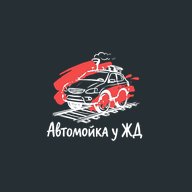
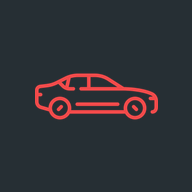
PWA: сплэш и иконка «Легковые», short_name «Автомойка» и фикс прайса.

Changed region(s): [[0.1562, 0.25, 0.8438, 0.75]]

diff --git a/apps/pwa/src/components/layout/SplashScreen.tsx b/apps/pwa/src/components/layout/SplashScreen.tsx
@@ -1,4 +1,4 @@
-import { LOGO_APP_PATH } from "../../brand/logo";
+import { AppMark } from "../brand/AppMark";
 
 export function SplashScreen() {
   return (
@@ -6,7 +6,7 @@ export function SplashScreen() {
       <div className="splash-screen__pattern" aria-hidden />
       <div className="splash-screen__content">
         <div className="splash-mark" aria-hidden>
-          <img className="splash-mark__logo" src={LOGO_APP_PATH} alt="" />
+          <AppMark className="splash-mark__logo" />
         </div>
         <h1 className="splash-screen__title">Автомойка у ЖД</h1>
         <p className="splash-screen__city">г. Ступино</p>

diff --git a/apps/pwa/src/pages/SplashPage.tsx b/apps/pwa/src/pages/SplashPage.tsx
@@ -1,6 +1,7 @@
 import { useEffect, useState } from "react";
 import { Navigate, useNavigate } from "react-router-dom";
 import { useAuth } from "../auth";
+import { SPLASH_MIN_DURATION_MS } from "../brand/logo";
 import { SplashScreen } from "../components/layout/SplashScreen";
 
 export function SplashPage() {
@@ -9,7 +10,7 @@ export function SplashPage() {
   const [minDelay, setMinDelay] = useState(false);
 
   useEffect(() => {
-    const t = window.setTimeout(() => setMinDelay(true), 900);
+    const t = window.setTimeout(() => setMinDelay(true), SPLASH_MIN_DURATION_MS);
     return () => window.clearTimeout(t);
   }, []);
 

diff --git a/apps/pwa/index.html b/apps/pwa/index.html
@@ -5,7 +5,7 @@
     <meta name="viewport" content="width=device-width, initial-scale=1, viewport-fit=cover" />
     <meta name="theme-color" content="#262f34" />
     <meta name="apple-mobile-web-app-capable" content="yes" />
-    <meta name="apple-mobile-web-app-title" content="Автомойка у ЖД" />
+    <meta name="apple-mobile-web-app-title" content="Автомойка" />
     <link rel="icon" href="/favicon-32.png" type="image/png" sizes="32x32" />
     <link rel="apple-touch-icon" href="/pwa-192.png" />
     <title>Автомойка у ЖД</title>

diff --git a/apps/pwa/vite.config.ts b/apps/pwa/vite.config.ts
@@ -18,7 +18,7 @@ export default defineConfig(({ mode }) => {
         includeAssets: ["favicon-32.png", "logo/logo.jpeg", "logo/logo.png", "pwa-192.png", "pwa-512.png"],
         manifest: {
           name: "Автомойка у ЖД",
-          short_name: "Автомойка у ЖД",
+          short_name: "Автомойка",
           description: "Прайс, запись и личный кабинет автомойки в Ступино",
           theme_color: "#262f34",
           background_color: "#262f34",

diff --git a/apps/pwa/src/components/brand/BrandLogo.tsx b/apps/pwa/src/components/brand/BrandLogo.tsx
@@ -1,14 +1,5 @@
-import { LOGO_NAV_SRC } from "../../brand/logo";
+import { AppMark } from "./AppMark";
 
 export function BrandLogo({ className = "" }: { className?: string }) {
-  return (
-    <span
-      className={["brand-logo", className].filter(Boolean).join(" ")}
-      style={{
-        WebkitMaskImage: `url(${LOGO_NAV_SRC})`,
-        maskImage: `url(${LOGO_NAV_SRC})`,
-      }}
-      aria-hidden
-    />
-  );
+  return <AppMark className={["brand-logo", className].filter(Boolean).join(" ")} />;
 }

diff --git a/apps/pwa/src/components/brand/AppMark.tsx b/apps/pwa/src/components/brand/AppMark.tsx
@@ -1,0 +1,14 @@
+import { LOGO_NAV_SRC } from "../../brand/logo";
+
+export function AppMark({ className = "" }: { className?: string }) {
+  return (
+    <span
+      className={["app-mark", className].filter(Boolean).join(" ")}
+      style={{
+        WebkitMaskImage: `url(${LOGO_NAV_SRC})`,
+        maskImage: `url(${LOGO_NAV_SRC})`,
+      }}
+      aria-hidden
+    />
+  );
+}

diff --git a/apps/pwa/src/brand/logo.ts b/apps/pwa/src/brand/logo.ts
@@ -8,3 +8,6 @@ export const LOGO_SOURCE_PATH = "/logo/logo.jpeg";
 export const LOGO_APP_PATH = "/logo/logo.png";
 /** Временно: иконка класса «Легковые» */
 export const LOGO_NAV_SRC = sedanIcon;
+
+/** Минимальное время сплэша при старте приложения */
+export const SPLASH_MIN_DURATION_MS = 1000;

diff --git a/apps/pwa/src/theme/shell.css b/apps/pwa/src/theme/shell.css
@@ -74,14 +74,6 @@
 .bottom-nav__logo .brand-logo {
   width: 56px;
   height: 56px;
-  display: block;
-  background-color: var(--brand-primary);
-  -webkit-mask-repeat: no-repeat;
-  mask-repeat: no-repeat;
-  -webkit-mask-position: center;
-  mask-position: center;
-  -webkit-mask-size: contain;
-  mask-size: contain;
 }
 
 .bottom-nav__logo--active .brand-logo {

diff --git a/apps/pwa/src/theme/price.css b/apps/pwa/src/theme/price.css
@@ -25,8 +25,9 @@
   background: transparent;
 }
 
-.class-tabs .ui-chip--active {
-  border-color: var(--brand-primary);
+.class-tabs .ui-chip.ui-chip--active,
+.class-tabs .ui-chip.ui-chip--active:hover:not(:disabled) {
+  border: 2px solid var(--brand-primary);
   background: transparent;
   color: var(--ink);
 }

diff --git a/apps/pwa/src/theme/brand-mark.css b/apps/pwa/src/theme/brand-mark.css
@@ -1,0 +1,10 @@
+.app-mark {
+  display: block;
+  background-color: var(--brand-primary);
+  -webkit-mask-repeat: no-repeat;
+  mask-repeat: no-repeat;
+  -webkit-mask-position: center;
+  mask-position: center;
+  -webkit-mask-size: contain;
+  mask-size: contain;
+}

diff --git a/apps/pwa/src/styles.css b/apps/pwa/src/styles.css
@@ -1,3 +1,4 @@
+@import "./theme/brand-mark.css";
 @import "./theme/tokens.css";
 @import "./theme/typography.css";
 @import "./theme/ui.css";

diff --git a/apps/pwa/src/theme/onboarding.css b/apps/pwa/src/theme/onboarding.css
@@ -49,7 +49,6 @@
 .splash-mark__logo {
   width: 52px;
   height: 52px;
-  object-fit: contain;
 }
 
 .splash-mark__icon {
